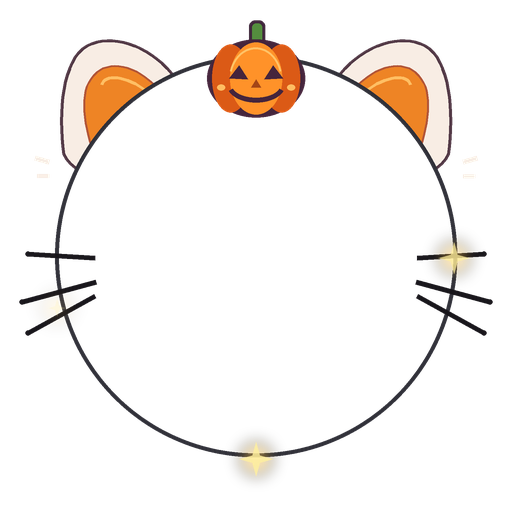
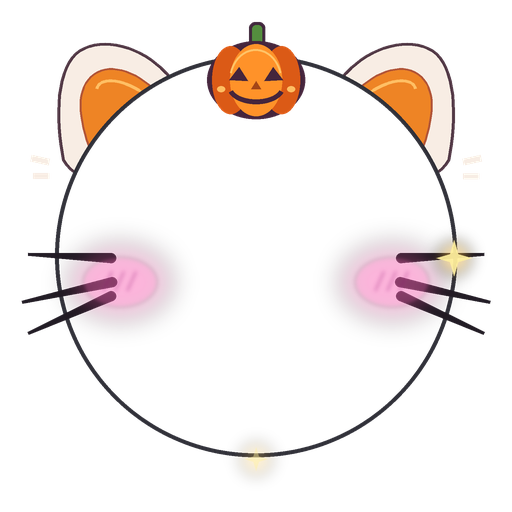
fix : 고양이 장식 털과 볼터치 보정 및 25프레임 전환

diff --git a/scripts/generate-halloween-cat-frame.py b/scripts/generate-halloween-cat-frame.py
@@ -1,4 +1,4 @@
-"""Render 15 transparent PNG frames and an APNG cat avatar accessory.
+"""Render 25 transparent PNG frames and an APNG cat avatar accessory.
 
 Requires Pillow. The 512px canvas uses the shared ProfileAvatar layout:
 the photo is a 400px circle centered at (256, 256).
@@ -14,8 +14,8 @@ from PIL import Image, ImageChops, ImageDraw, ImageFilter
 
 ASSETS = Path(__file__).resolve().parents[1] / "src/shared/ui/ProfileAvatar/assets"
 FRAMES_DIR = ASSETS / "halloween-cat-frames"
-FRAME_COUNT = 15
-FRAME_DURATION_MS = 80
+FRAME_COUNT = 25
+FRAME_DURATION_MS = 60
 CANVAS_SIZE = 512
 DRAW_SCALE = 3
 
@@ -112,16 +112,36 @@ def draw_ear(layer: Image.Image, angle: float, right: bool) -> None:
 def draw_whiskers(layer: Image.Image, sway: float) -> None:
     draw = ImageDraw.Draw(layer)
     left_lines = (
-        ((95, 258), (28, 252 + sway)),
-        ((96, 282), (22, 300 + sway)),
-        ((95, 296), (28, 331 + sway)),
+        ((111, 258), (28, 252 + sway)),
+        ((112, 282), (22, 300 + sway)),
+        ((111, 296), (28, 331 + sway)),
     )
     for start, end in left_lines:
         for pair in ((start, end), (mirror([start])[0], mirror([end])[0])):
-            draw.line(scale_points(list(pair)), fill="#17151A", width=5 * DRAW_SCALE)
-            radius = 2.5 * DRAW_SCALE
-            x, y = pair[1][0] * DRAW_SCALE, pair[1][1] * DRAW_SCALE
-            draw.ellipse((x - radius, y - radius, x + radius, y + radius), fill="#17151A")
+            root, tip = pair
+            delta_x, delta_y = tip[0] - root[0], tip[1] - root[1]
+            length = math.hypot(delta_x, delta_y)
+            normal_x, normal_y = -delta_y / length, delta_x / length
+            draw.polygon(
+                scale_points(
+                    [
+                        (root[0] + 5 * normal_x, root[1] + 5 * normal_y),
+                        (tip[0] + 1.5 * normal_x, tip[1] + 1.5 * normal_y),
+                        (tip[0] - 1.5 * normal_x, tip[1] - 1.5 * normal_y),
+                        (root[0] - 5 * normal_x, root[1] - 5 * normal_y),
+                    ]
+                ),
+                fill="#211B24",
+            )
+            draw.ellipse(
+                (
+                    round((root[0] - 5) * DRAW_SCALE),
+                    round((root[1] - 5) * DRAW_SCALE),
+                    round((root[0] + 5) * DRAW_SCALE),
+                    round((root[1] + 5) * DRAW_SCALE),
+                ),
+                fill="#211B24",
+            )
 
 
 def draw_blush(layer: Image.Image, progress: float) -> None:
@@ -136,8 +156,8 @@ def draw_blush(layer: Image.Image, progress: float) -> None:
     details = Image.new("RGBA", size)
     detail_draw = ImageDraw.Draw(details)
 
-    for center_x in (132, 380):
-        center_y = 286
+    for center_x in (120, 392):
+        center_y = 282
         glow_draw.ellipse(
             (
                 round((center_x - 52) * DRAW_SCALE),
@@ -145,7 +165,7 @@ def draw_blush(layer: Image.Image, progress: float) -> None:
                 round((center_x + 52) * DRAW_SCALE),
                 round((center_y + 38) * DRAW_SCALE),
             ),
-            fill=(244, 82, 169, round(115 * opacity)),
+            fill=(244, 82, 169, round(85 * opacity)),
         )
         detail_draw.ellipse(
             (
@@ -154,9 +174,9 @@ def draw_blush(layer: Image.Image, progress: float) -> None:
                 round((center_x + 37) * DRAW_SCALE),
                 round((center_y + 25) * DRAW_SCALE),
             ),
-            fill=(255, 114, 190, round(95 * opacity)),
+            fill=(255, 114, 190, round(55 * opacity)),
         )
-        for offset in (-17, -7, 3, 13):
+        for offset in (-12, 0, 12):
             detail_draw.line(
                 scale_points(
                     [
@@ -164,13 +184,13 @@ def draw_blush(layer: Image.Image, progress: float) -> None:
                         (center_x + offset + 4, center_y - 11),
                     ]
                 ),
-                fill=(172, 46, 135, round(185 * opacity)),
+                fill=(172, 46, 135, round(110 * opacity)),
                 width=3 * DRAW_SCALE,
             )
 
-    softened = glow.filter(ImageFilter.GaussianBlur(9 * DRAW_SCALE))
+    softened = glow.filter(ImageFilter.GaussianBlur(12 * DRAW_SCALE))
     layer.alpha_composite(softened)
-    layer.alpha_composite(details)
+    layer.alpha_composite(details.filter(ImageFilter.GaussianBlur(2 * DRAW_SCALE)))
 
 
 def draw_pumpkin(layer: Image.Image, progress: float) -> None:
@@ -285,18 +305,18 @@ def render_frame(index: int) -> Image.Image:
         side = -1 if right else 1
         x = 49 if not right else 463
         draw.line(
-            scale_points([(x, 162), (x - 14 * side, 158)]),
+            scale_points([(x, 162), (x - 18 * side, 158)]),
             fill="#F8EDE4",
-            width=5 * DRAW_SCALE,
+            width=7 * DRAW_SCALE,
         )
         draw.line(
-            scale_points([(x, 176), (x - 12 * side, 176)]),
+            scale_points([(x, 176), (x - 16 * side, 176)]),
             fill="#F8EDE4",
-            width=4 * DRAW_SCALE,
+            width=6 * DRAW_SCALE,
         )
     draw_pumpkin(layer, progress)
-    draw_blush(layer, progress)
     draw_whiskers(layer, whisker_sway)
+    draw_blush(layer, progress)
     draw_sparkles(layer, progress)
     return layer.resize((CANVAS_SIZE, CANVAS_SIZE), Image.Resampling.LANCZOS)
 
@@ -328,7 +348,7 @@ def main() -> None:
     for index in range(FRAME_COUNT):
         render_frame(index).save(FRAMES_DIR / f"frame-{index + 1:02}.png")
 
-    # Assemble the APNG from the exact 15 PNG files delivered alongside it.
+    # Assemble the APNG from the exact 25 PNG files delivered alongside it.
     frames = []
     for index in range(1, FRAME_COUNT + 1):
         with Image.open(FRAMES_DIR / f"frame-{index:02}.png") as frame:
